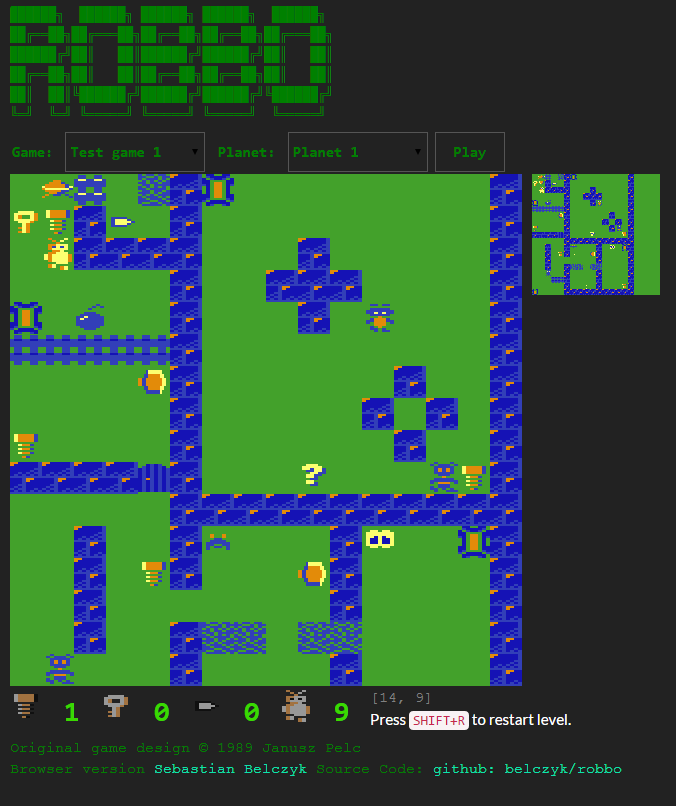
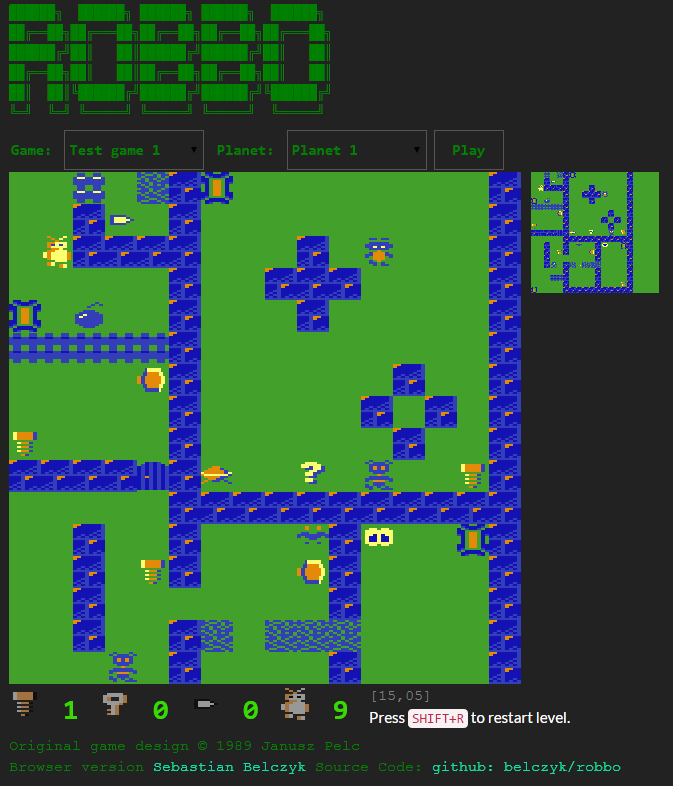
edit notes, robbo screenshot and map in universe

diff --git a/game/config/universe.js b/game/config/universe.js
@@ -11,8 +11,8 @@ app.Universe = {
           "width": 20,
           "height": 19,
           "boltsToBeCollected": 1,
-          "map": "_..s..#o._..+..w3.T00_.._.._.._.._.._.._.._..w3._.._.._.._..\n\
-k..b..w3.a.._..w3._.._.._.._.._.._.._.._.._..w3.\n\
+          "map": "_.._..#o._..+..w3.T00_.._.._.._.._.._.._.._..w3._.._.._.._..\n\
+_.._..w3.a.._..w3._.._.._.._.._.._.._.._.._..w3.\n\
 _..R..w3.w3.w3.w3._.._..Ea.w3._.._.._.._.._..w3.\n\
 _.._.._.._.._..w3._.._..w3.w3.w3._.._.._.._..w3.\n\
 T10_..X.._.._..w3._.._.._..w3._.._.._.._.._..w3.\n\
@@ -20,7 +20,7 @@ T10_..X.._.._..w3._.._.._..w3._.._.._.._.._..w3.\n\
 _.._.._.._..L<sw3._.._.._.._.._..Ec.w3._.._..w3.\n\
 _.._.._.._.._..w3._.._.._.._.._..w3._..w3._..w3.\n\
 b.._.._.._.._..w3._.._.._.._.._.._..w3._.._..w3.\n\
-w3.w3.w3.w3.d..w3._.._.._..?.._.._.._.._..b..w3.\n\
+w3.w3.w3.w3.d..w3.s.._.._..?.._.._.._.._..b..w3.\n\
 _.._.._.._.._..w3.w3.w3.w3.w3.w3.w3.w3.w3.w3.w3.\n\
 _.._..w3._.._..w3.B_v_.._.._..w3._.._.._..T01w3.\n\
 _.._..w3._..b..w3._.._.._..L<.w3._..Ee._.._..w3.\n\

diff --git a/game/robbo.html b/game/robbo.html
@@ -70,7 +70,7 @@
 		<span>Press <code>SHIFT+R</code> to restart level.</span>
 	</div>
 	<div class="copy-rights">Original game design &copy; 1989 Janusz Pelc</div>
-	<div class="copy-rights">Browser version <a href="https://www.linkedin.com/in/sebastianbelczyk" target="_blank">Sebastian Belczyk</a> Source Code: <a href="https://github.com/belczyk/robbo" target="_blank">github: belczyk/robbo</a></div>
+	<div class="copy-rights">Browser version <a href="http://belczyk.com" target="_blank">Sebastian Belczyk</a> Source Code: <a href="https://github.com/belczyk/robbo" target="_blank">github: belczyk/robbo</a></div>
 	<div id="assets">
 		<audio id="audio-ammo">
 			<source src="content/game-sounds/ammo.wav" type="audio/wav"/>
